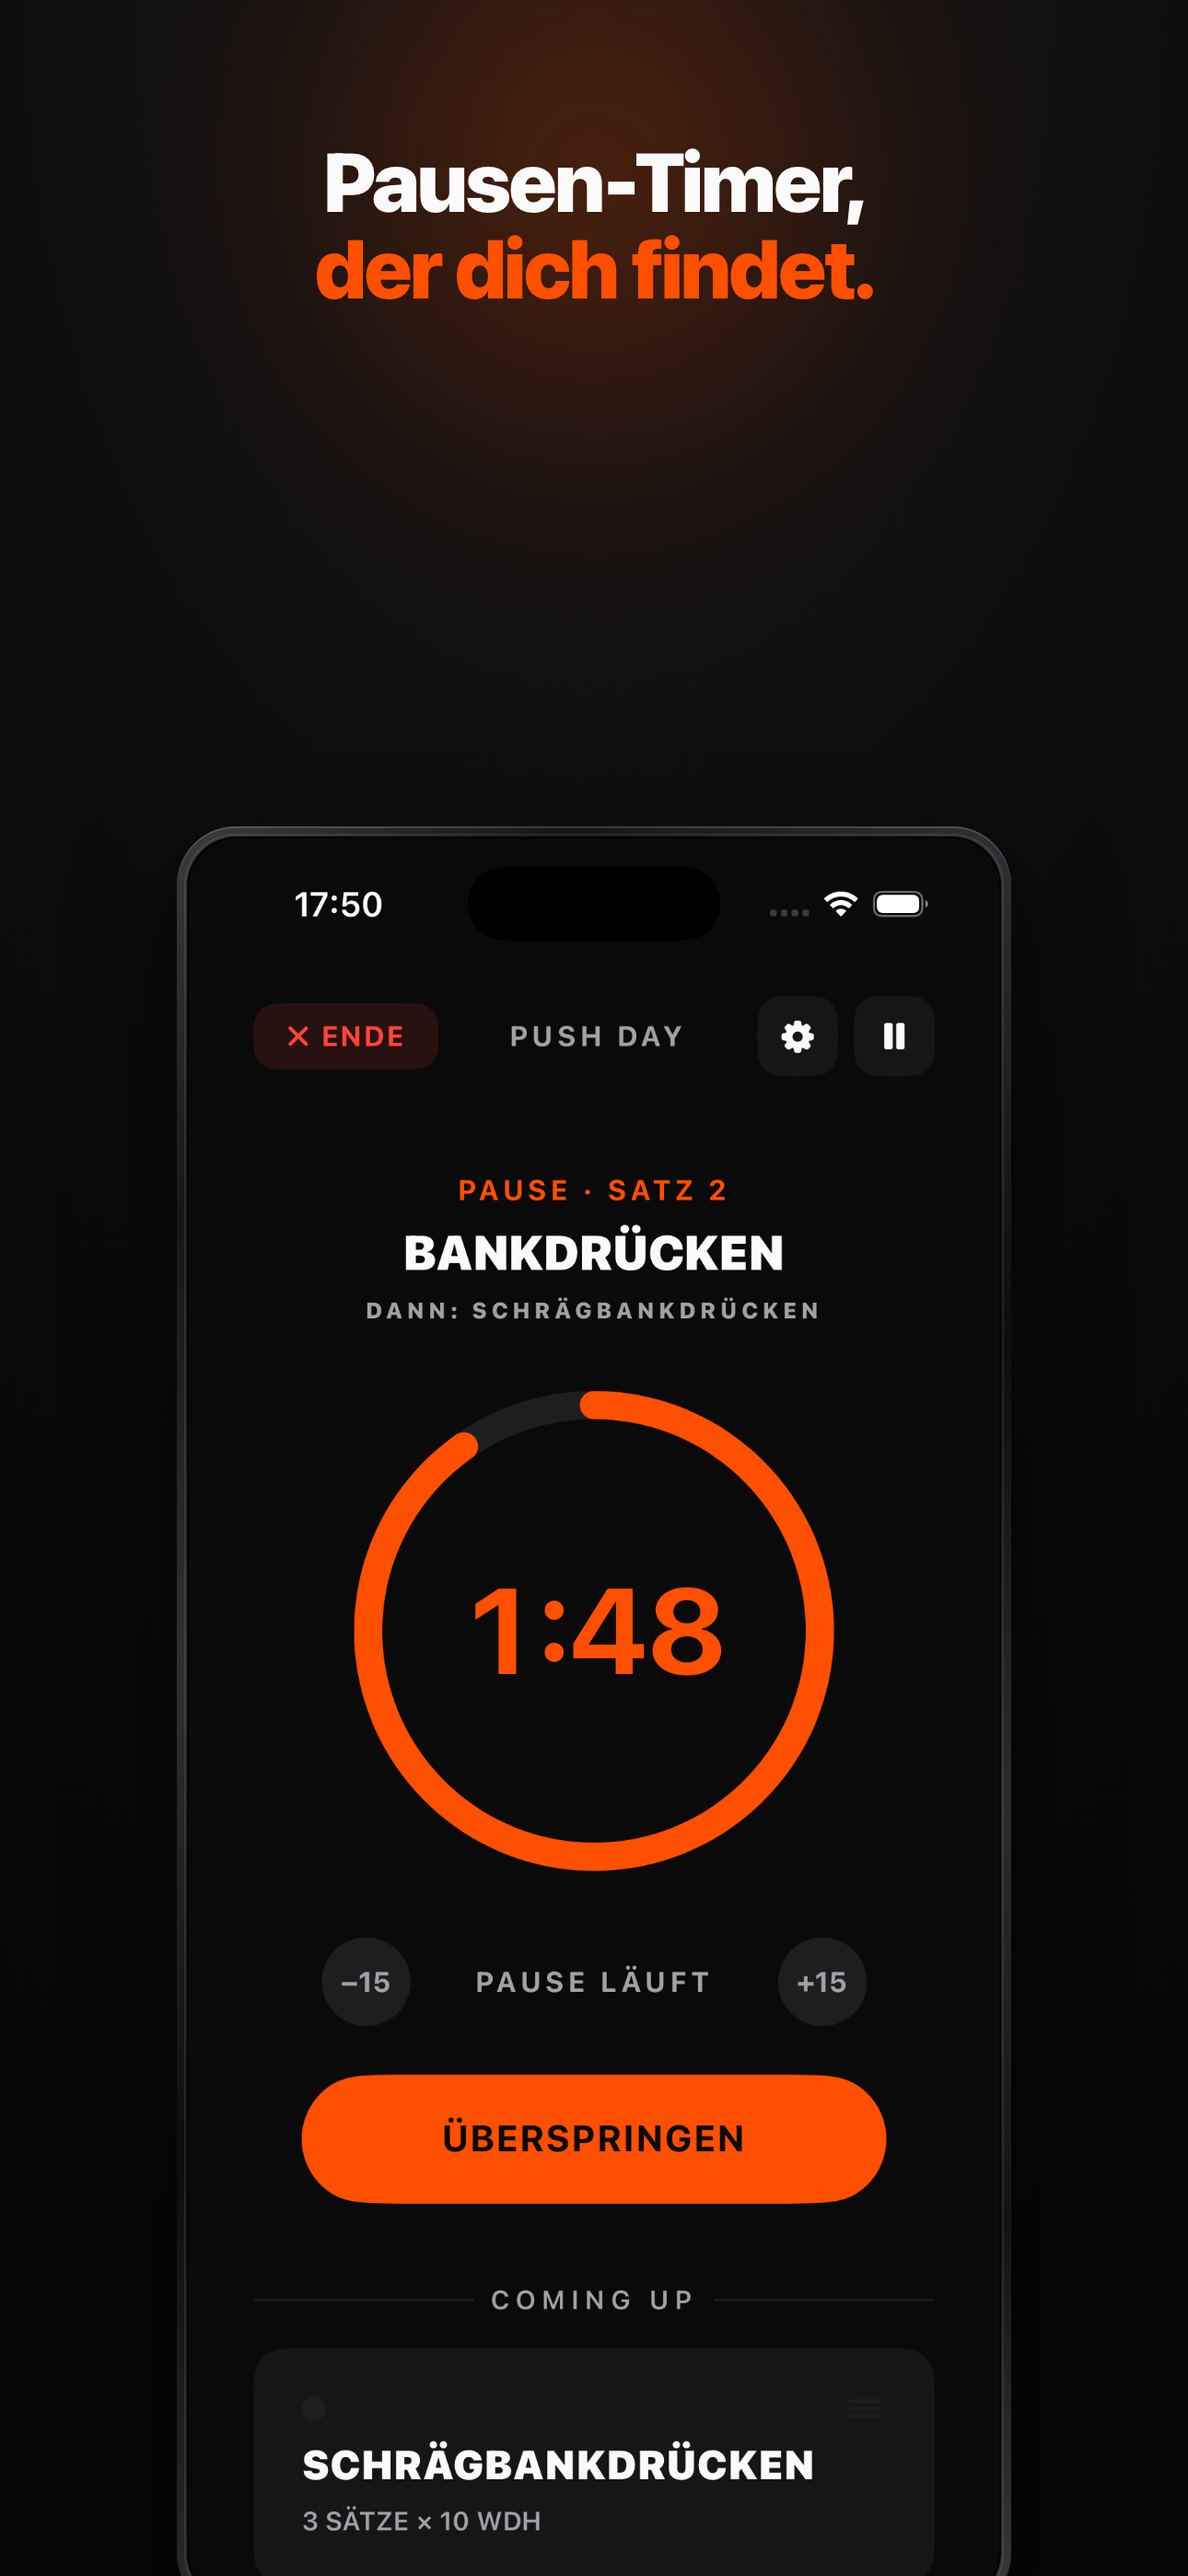
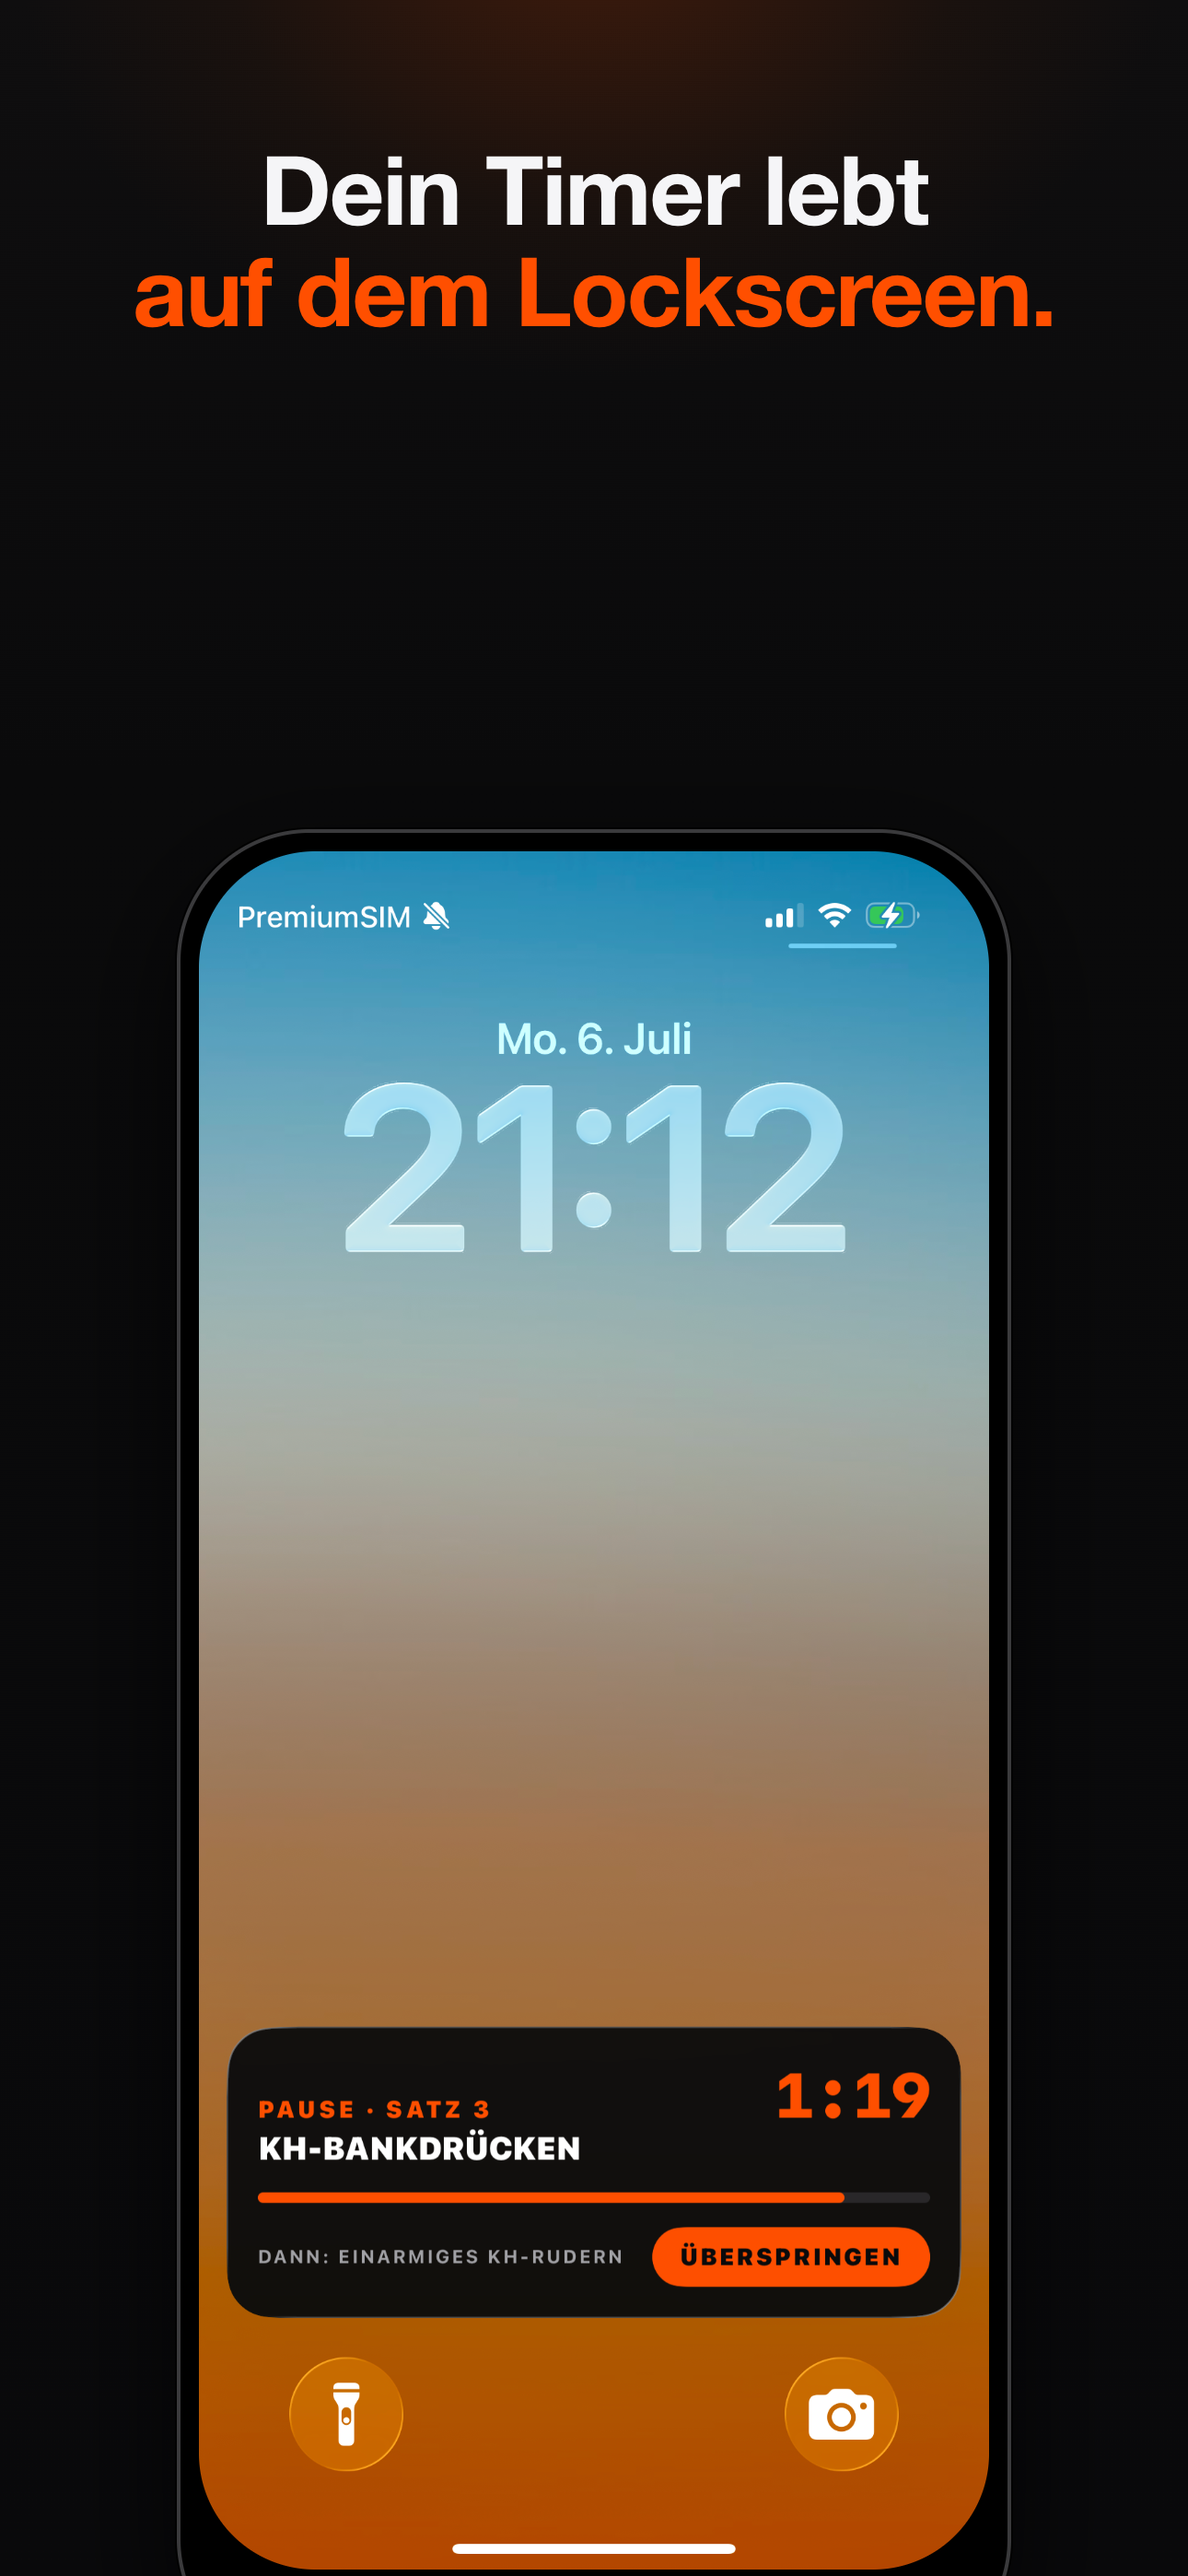
assets: DE store slide 4 — Live Activity on a real lock screen (1.1)
"Dein Timer lebt auf dem Lockscreen." over a real-device shot (ticking
1:19 countdown, skip button). Raw shot preserved in docs/app-store/raw/
because it cannot be reproduced in the simulator (locked screens render
the countdown as "1:--"). Old in-app timer slide retired.
EN slot 4 pending — needs the device switched to English once.

diff --git a/docs/app-store-listing.md b/docs/app-store-listing.md
@@ -113,6 +113,13 @@ Werbung. Kein Quatsch."), `05-letztes-mal` ("Du siehst immer, was letztes Mal gi
 Retired slides live in `docs/app-store/retired/`. Generator: scratchpad `make_slides.py`
 (headless Chrome, 1290×2796) — raw device shots from iPhone 17 Pro simulator, status bar 17:21.
 
+**Slot 4 DE updated 06.07.2026 (for 1.1):** now shows the Live Activity on a real lock screen
+("Dein Timer lebt auf dem Lockscreen.") — raw shot from Matti's device in
+`docs/app-store/raw/Lockscreen_DE.png` (NOT reproducible in the simulator: locked screens
+render the ticking countdown as "1:--"). Old in-app timer slide retired as
+`retired/de/04-pausen-timer-v1-inapp.png`. **EN slot 4 still pending** — needs the same shot
+with device language English ("Your timer lives on your Lock Screen.").
+
 App Store Connect required size is **6.9" (1290×2796)** — a single set is accepted and
 auto-scaled to smaller devices.
 
